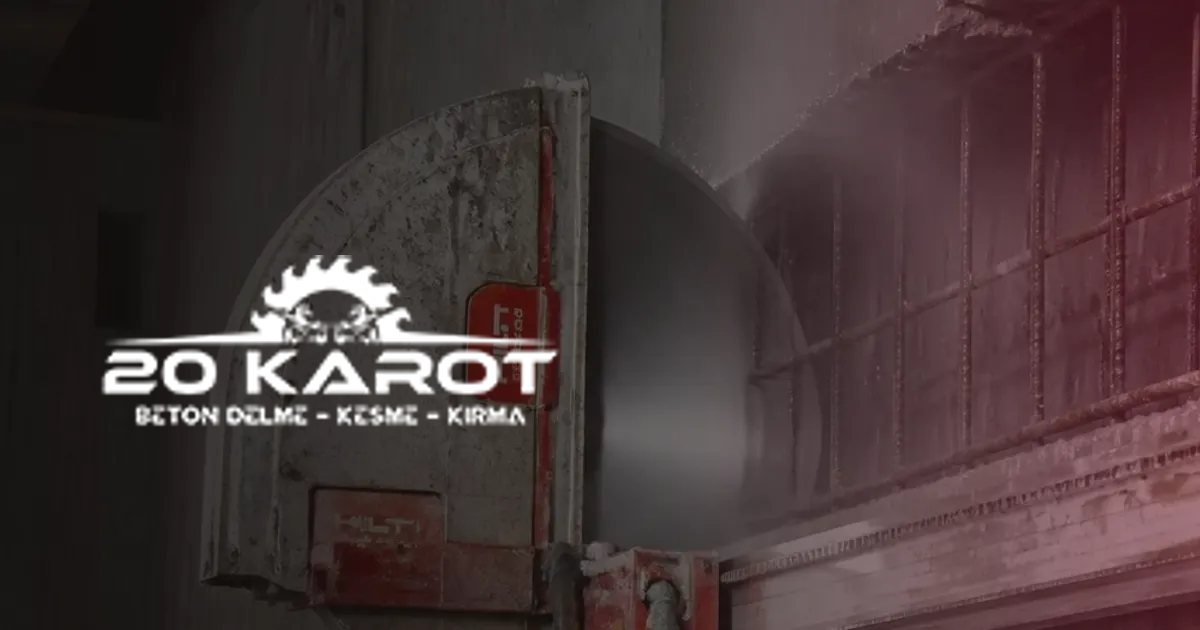
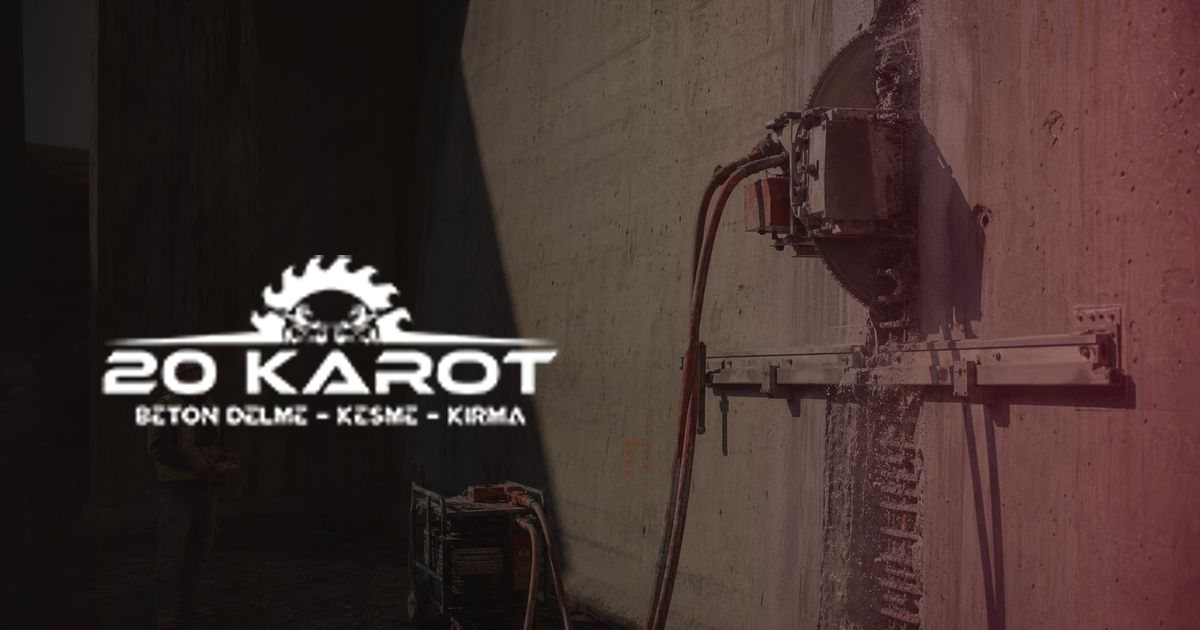
feat: hidrolik gorsel duzeltildi, istatistikler girildi, temsili etiketi kaldirildi
GORSEL
- hidrolik-beton-kesme: yeni promptla gelen 3 varyantin #1'i secildi. Bu kez
  dogru: hidrolik duvar testeresi, ray, kirmizi hidrolik hortumlar, yerde guc
  unitesi, uzaktan kumandali operator. Onceki 3 varyant zemin kesme makinesi
  gosteriyordu (asfalt derz kesimle ayni seydi).
  Hizmet gorseli + 600w varyanti + OG gorseli yenilendi.

ISTATISTIKLER (kullanici talebi)
- foundedYear: 2014 (tek kaynak)
- stats: 850 proje, 610 musteri, 6 kisilik ekip
- yearsExperience artik ELLE TUTULMUYOR: new Date().getFullYear() - foundedYear
  ile hesaplaniyor. Boylece "12 yil tecrube" yazip kurulus yilini 2015 birakma
  gibi bir tutarsizlik olusamaz; yil basinda guncelleme derdi de kalmiyor.
- about.js foundedYear'i siteConfig'ten aliyor; timeline yillari otomatik kaydi.

GALERI (kullanici talebi)
"Temsili gorsel" etiketi ve sayfadaki aciklayici paragraf kaldirildi.
Sayfa basligi "Uygulama Alanlari" olarak kaliyor — bu baslik zaten
"tamamladigimiz projeler" iddiasi tasimiyor, hizmetin sahada nasil gorundugunu
anlatiyor. projects.js'teki `temsili` alani da kaldirildi; gercek saha
fotografi geldiginde yalnizca `image` yolunu degistirmek yeterli.

DOKUMAN — DEPLOY-ONCESI.md
- GA4 olcum kimligi ve Google Ads donusum kimligi/etiketlerinin nereden
  alinacagi adim adim yazildi (kullanici bulamadigini soyledi).
  page_view'in birincil donusumden ikincile cekilmesi de dahil.
- ".htaccess nedir, neden onemli" bolumu eklendi: uc isi (301 yonlendirmeler,
[…]

diff --git a/src/data/projects.js b/src/data/projects.js
@@ -1,19 +1,12 @@
 /**
  * Uygulama Alanları galerisi.
  *
- * ┌──────────────────────────────────────────────────────────────────────────┐
- * │ ⚠ BU GÖRSELLER TEMSİLİDİR — firmanın tamamladığı işlerin fotoğrafı      │
- * │ DEĞİLDİR. Yapay zekâ ile üretilmiş, yöntemi anlatan örneklerdir.         │
- * │                                                                          │
- * │ Bu yüzden sayfanın adı "Projelerimiz" değil "Uygulama Alanları" ve her   │
- * │ görselin üzerinde "Temsili görsel" etiketi var. Yapılmamış işi yapılmış  │
- * │ gibi göstermek hem müşteriye karşı yanlış beyan olurdu hem de Google'ın  │
- * │ deneyim (E-E-A-T) değerlendirmesinde aleyhe çalışırdı.                   │
- * │                                                                          │
- * │ SAHADAN GERÇEK FOTOĞRAF ÇEKTİKÇE: görseli buraya ekleyin ve o kaydın     │
- * │ `temsili` alanını false yapın — etiket kalkar. Hepsi gerçek olduğunda   │
- * │ sayfa başlığını "Projelerimiz" olarak geri değiştirebiliriz.             │
- * └──────────────────────────────────────────────────────────────────────────┘
+ * Görseller şu an hizmetin sahada nasıl göründüğünü anlatan örneklerdir.
+ * Sahadan kendi fotoğraflarınızı çektikçe buradaki `image` yollarını
+ * değiştirmeniz yeterli — başka hiçbir yeri elleme.
+ *
+ * Yeni fotoğraf eklerken: 1600x1200 WebP + `-800.webp` küçük varyantı
+ * (public/images/projeler/ altına). Dosya adını buraya yazın.
  */
 
 const projects = [
@@ -23,7 +16,6 @@ const projects = [
     title: 'Döşemede Tesisat Geçiş Delikleri',
     category: 'Beton Delme',
     icon: 'drill',
-    temsili: true,
   },
   {
     id: 2,
@@ -31,7 +23,6 @@ const projects = [
     title: 'Duvarda Kapı Açıklığı Kesimi',
     category: 'Beton Kesme',
     icon: 'saw',
-    temsili: true,
   },
   {
     id: 3,
@@ -39,7 +30,6 @@ const projects = [
     title: 'Sanayi Yapısında Döşeme Kesimi',
     category: 'Beton Kesme',
     icon: 'saw',
-    temsili: true,
   },
   {
     id: 4,
@@ -47,7 +37,6 @@ const projects = [
     title: 'Asansör Boşluğu Açma',
     category: 'Beton Kesme',
     icon: 'saw',
-    temsili: true,
   },
   {
     id: 5,
@@ -55,7 +44,6 @@ const projects = [
     title: 'Temele Filiz Ekimi',
     category: 'Filiz Ekimi',
     icon: 'rebar',
-    temsili: true,
   },
   {
     id: 6,
@@ -63,7 +51,6 @@ const projects = [
     title: 'Kontrollü Kat İndirme',
     category: 'Bina Yıkımı',
     icon: 'demolition',
-    temsili: true,
   },
 ]
 

diff --git a/src/data/siteConfig.js b/src/data/siteConfig.js
@@ -136,14 +136,16 @@ const siteConfig = {
   // ===== Hizmet Bölgeleri =====
   // src/data/serviceAreas.js dosyasına taşındı (her ilçenin kendi sayfası var).
 
-  // ===== İstatistikler =====
-  // TODO: GERÇEK RAKAMLARLA DEĞİŞTİRİN. Bunlar yer tutucudur.
-  // Bir alanı `null` yaparsanız o kutu sitede hiç gösterilmez (uydurma rakam çıkmaz).
+  // ===== Kuruluş & İstatistikler =====
+  // foundedYear tek kaynak: "yıl tecrübe" bundan HESAPLANIYOR, ikisi
+  // birbirinden ayrı düşemez. Yılı değiştirmek yeterli.
+  foundedYear: 2014,
+
   stats: {
-    yearsExperience: 10,
-    completedProjects: 750,
-    happyClients: 500,
-    teamMembers: 8,
+    // yearsExperience aşağıda foundedYear'dan hesaplanıp ekleniyor.
+    completedProjects: 850,
+    happyClients: 610,
+    teamMembers: 6,
   },
 
   // ===== SEO =====
@@ -158,6 +160,10 @@ const siteConfig = {
       '20 karot, denizli karot, denizli karot firması, karot denizli, denizli karotçu, beton delme denizli, beton kesme denizli, denizli beton kırma, 7/24 karot denizli, merkezefendi karot, pamukkale karot, asfalt derz kesim denizli, filiz ekimi denizli, kimyasal ankraj denizli',
   },
 }
+
+// "X yıl tecrübe" değerini elle tutmak yerine kuruluş yılından hesaplıyoruz;
+// böylece her yıl başında güncellemeyi unutma diye bir şey kalmıyor.
+siteConfig.stats.yearsExperience = new Date().getFullYear() - siteConfig.foundedYear
 
 /**
  * Geliştirme sırasında eksik kalan TODO alanlarını konsola yazar.
@@ -179,7 +185,7 @@ if (import.meta.env?.DEV) {
     console.warn(
       `[20 Karot] siteConfig.js — yayına almadan önce doldurulmalı (${eksik.length} alan):\n` +
         eksik.map((e) => `  • ${e}`).join('\n') +
-        '\n  Ayrıca stats.* rakamları yer tutucudur. Tam liste: DEPLOY-ONCESI.md'
+        '\n  Tam liste: DEPLOY-ONCESI.md'
     )
   }
 }

diff --git a/src/pages/Projects.jsx b/src/pages/Projects.jsx
@@ -24,18 +24,7 @@ export default function Projects() {
       <section className="section-padding bg-white">
         <div className="max-w-7xl mx-auto">
           {projects.length > 0 ? (
-            <>
-              <div className="max-w-3xl mx-auto text-center mb-12">
-                <p className="text-gray-600 leading-relaxed">
-                  Aşağıdaki görseller, verdiğimiz hizmetlerin sahada nasıl göründüğünü
-                  anlatan <strong className="text-dark">temsili örneklerdir</strong> —
-                  tamamladığımız işlerin fotoğrafları değildir. Kendi saha
-                  fotoğraflarımızı çektikçe bu sayfayı gerçek işlerimizle
-                  değiştiriyoruz.
-                </p>
-              </div>
-              <ProjectGallery />
-            </>
+            <ProjectGallery />
           ) : (
             <div className="max-w-xl mx-auto text-center">
               <div className="w-20 h-20 mx-auto mb-6 rounded-2xl bg-accent/10 text-accent flex items-center justify-center">

diff --git a/src/components/ProjectGallery.jsx b/src/components/ProjectGallery.jsx
@@ -86,15 +86,6 @@ export default function ProjectGallery({ limit }) {
               onFail={() => markFailed(project.id)}
             />
 
-            {/* Temsili görsel etiketi — bu kare firmanın tamamladığı bir işin
-                fotoğrafı değil; yöntemi anlatan örnek bir görsel. Gerçek saha
-                fotoğrafı eklendiğinde projects.js'te temsili:false yapılır. */}
-            {project.temsili && (
-              <span className="absolute top-3 right-3 z-10 px-2.5 py-1 rounded-md bg-dark/75 backdrop-blur-sm text-white/85 text-[11px] font-medium tracking-wide">
-                Temsili görsel
-              </span>
-            )}
-
             {/* Hover katmanı */}
             <div className="absolute inset-0 bg-gradient-to-t from-dark/95 via-dark/40 to-transparent opacity-0 group-hover:opacity-100 group-focus-visible:opacity-100 transition-all duration-500 flex flex-col justify-end p-5">
               <span className="text-primary text-xs font-semibold uppercase tracking-wider mb-1">

diff --git a/src/data/about.js b/src/data/about.js
@@ -1,3 +1,5 @@
+import siteConfig from './siteConfig.js'
+
 /**
  * Hakkımızda sayfası içerikleri.
  *
@@ -11,8 +13,9 @@
  * └──────────────────────────────────────────────────────────────────────┘
  */
 
-// TODO: gerçek kuruluş yılı
-export const foundedYear = 2015
+// Kuruluş yılı tek yerde: src/data/siteConfig.js. Buradan yeniden dışa
+// aktarılıyor ki timeline ve Hakkımızda sayfası aynı değeri kullansın.
+export const foundedYear = siteConfig.foundedYear
 
 export const timeline = [
   {

diff --git a/DEPLOY-ONCESI.md b/DEPLOY-ONCESI.md
@@ -21,6 +21,23 @@ Yeni siteyi yüklemek eskisini siler. Yanlış yapılırsa mevcut sıralamalar k
 
 Yönlendirmeler `dist/.htaccess` dosyasında **otomatik üretiliyor**.
 
+### `.htaccess` nedir, neden önemli?
+
+Apache sunucularında, bir klasörün içine konan ve **o klasördeki kuralları
+belirleyen** ayar dosyasıdır. Adı nokta ile başladığı için "gizli dosya"
+sayılır — FileZilla varsayılan ayarlarla **göstermez ve yüklemez.**
+
+Bizim `.htaccess` dosyamız üç iş yapıyor:
+
+1. **Eski adresleri yenisine yönlendiriyor.** `20karot.com.tr/hizmetlerimiz/`
+   adresine gelen ziyaretçiyi (ve Google'ı) `/hizmetler/` adresine kalıcı
+   olarak taşıyor. Bu dosya olmazsa eski WordPress adreslerinin 31 tanesi
+   **404 verir** ve o sayfaların Google'daki sıralaması kaybolur.
+2. **Alt sayfaların açılmasını sağlıyor.** Site tek sayfa uygulaması; sunucuya
+   `/hizmetler/karot/` diye bir istek geldiğinde ne yapacağını bu dosya söylüyor.
+3. **Türkçe karakter ve önbellek ayarları.** Bu olmadan `llms.txt` gibi metin
+   dosyalarında "Kırma" yerine "KÄ±rma" görünüyor (daha önce yaşadığınız sorun).
+
 ### ⚠ `.htaccess` dosyasını yüklemeyi ATLAMA
 
 `dist/.htaccess` **gizli dosyadır**, FileZilla varsayılan olarak göstermez:
@@ -68,8 +85,8 @@ Bu sayfaları oluşturunca `vite.config.js` içindeki `redirects` dizisinden ilg
 | `geo.lat/lng`, `placeId`, `embedSrc` | ✅ | Google İşletme Profili'nden alındı, harita tam pini gösteriyor |
 | `workingHours` | ✅ | Google profiline göre "24 saat açık" |
 | `rating` | ✅ | 5,0 / 32 yorum — **JSON-LD'ye yazılmıyor** (aşağıya bak) |
-| **`stats.*`** | ⚠ **YER TUTUCU** | `10 / 750 / 500 / 8` — **uydurma sayılar.** Değiştirmeden yayına çıkma. |
-| `social.instagram/facebook` | ❌ Boş | Boşken footer'da o ikon hiç gösterilmez (kırık link oluşmaz) |
+| `foundedYear` + `stats.*` | ✅ Girildi | Kuruluş 2014, 850 proje, 610 müşteri, 6 kişi. **"Yıl tecrübe" `foundedYear`'dan otomatik hesaplanıyor** — sadece yılı değiştirin, gerisi kendiliğinden güncellenir. |
+| `social.instagram/facebook` | — | Hesap yok. Boş kaldığı sürece footer'da o ikon hiç gösterilmez. |
 | `analytics.ga4` | ❌ Boş | `G-XXXXXXXXXX` girilince GA script'i otomatik eklenir |
 | `analytics.googleSiteVerification` | ❌ Boş | Search Console doğrulama kodu |
 
@@ -106,6 +123,81 @@ metin/rozet olarak göstermek serbest. Kendi sitenizde yorum toplarsanız
 - Proje fotoğrafınız yok dediniz. Fotoğraf hazır olana kadar **diziyi `[]` yapın** —
   Projeler sayfası "yakında" mesajı gösterir, ana sayfadaki proje bölümü tamamen gizlenir.
   Boş yer tutucu kareler görünmez.
+
+---
+
+## 1.5 Google Analytics ve Google Ads kimlikleri — nereden alınır?
+
+### A) GA4 Ölçüm Kimliği (`G-XXXXXXXXXX`)
+
+1. [analytics.google.com](https://analytics.google.com) → sol altta **⚙ Yönetici**
+2. Sağ sütun **Mülk** altında → **Veri akışları**
+3. `20karot.com.tr` akışına tıkla
+4. Sağ üstte **Ölçüm Kimliği** yazıyor: `G-` ile başlayan kod. Kopyala.
+
+→ `src/data/siteConfig.js` → `analytics.ga4`
+
+> Akış yoksa: **Veri akışları → Akış ekle → Web** → URL `https://20karot.com.tr`,
+> akış adı "20 Karot Web". Kimlik hemen oluşur.
+
+### B) Google Ads Dönüşüm Kimliği (`AW-XXXXXXXXX`) ve etiketler
+
+**Önce mevcut sorunu düzelt:**
+
+1. [ads.google.com](https://ads.google.com) → üstte **Hedefler** → **Dönüşümler** → **Özet**
+2. Listede `20karot.com.tr (web) conversion_event_page_view` satırını bul
+3. Üstüne tıkla → **Ayarları düzenle** → **Hedef ve işlem optimizasyonu**
+4. **"İkincil işlem"** seç → Kaydet
+
+   *Neden: bu satır şu an "Birincil". Yani Google'a "biri sayfamı açtıysa bu bir
+   başarıdır" diyorsun. Akıllı teklif bütçeyi arayacak müşteriye değil, açıp
+   çıkacak kişiye harcıyor.*
+
+**Sonra gerçek dönüşümleri oluştur — 3 kez tekrarla:**
+
+1. **Dönüşümler → + Yeni dönüşüm işlemi → Web sitesi**
+2. Alan adı olarak `20karot.com.tr` yaz → **Tara**
+3. Alttaki **"Dönüşüm işlemini manuel olarak ekle"** bağlantısına tıkla
+   *(sitede otomatik bulamayabilir, normal)*
+4. Doldur:
+
+   | Dönüşüm adı | Kategori | Değer |
+   |---|---|---|
+   | Telefon Tıklama | Kişi → Telefonla iletişim | Değer kullanma |
+   | WhatsApp Tıklama | Kişi → Sohbet başlatma | Değer kullanma |
+   | Form Gönderimi | Gönderilen potansiyel müşteri formu | Değer kullanma |
+
+   Üçünde de: **Birincil işlem** · Sayım: **Bir kez**
+5. Kaydet → **"Etiketi ayarla"** ekranı açılır → **"Etiketi manuel olarak yükle"** seç
+6. Ekranda şuna benzer bir kod görürsün:
+
+   ```js
+   gtag('event', 'conversion', {'send_to': 'AW-123456789/AbC-D_efG12'});
+   ```
+
+   - `AW-123456789` → **Dönüşüm kimliği** (üçünde de aynıdır)
+   - `AbC-D_efG12` → **dönüşüm etiketi** (her dönüşümde farklıdır)
+
+**Sitede nereye yazılacak** — `src/data/siteConfig.js`:
+
+```js
+analytics: {
+  ga4: 'G-XXXXXXXXXX',           // A adımından
+  googleAds: 'AW-123456789',     // bölü işaretinden ÖNCEKİ kısım
+  conversions: {
+    telefon:  'AbC-D_efG12',     // bölü işaretinden SONRAKİ kısım
+    whatsapp: '...',
+    form:     '...',
+  },
+},
+```
+
+Kaydet → `npm run build` → yükle. Site tarafında başka bir şey yapmanıza gerek
+yok; telefon, WhatsApp, e-posta, harita tıklamaları ve form gönderimi otomatik
+raporlanıyor.
+
+> **Kontrol:** Ads → Dönüşümler listesinde durum önce *"Doğrulanmadı"* görünür.
+> Siteye girip telefon butonuna tıklayın; birkaç saat içinde *"Etkin"*e döner.
 
 ---
 
